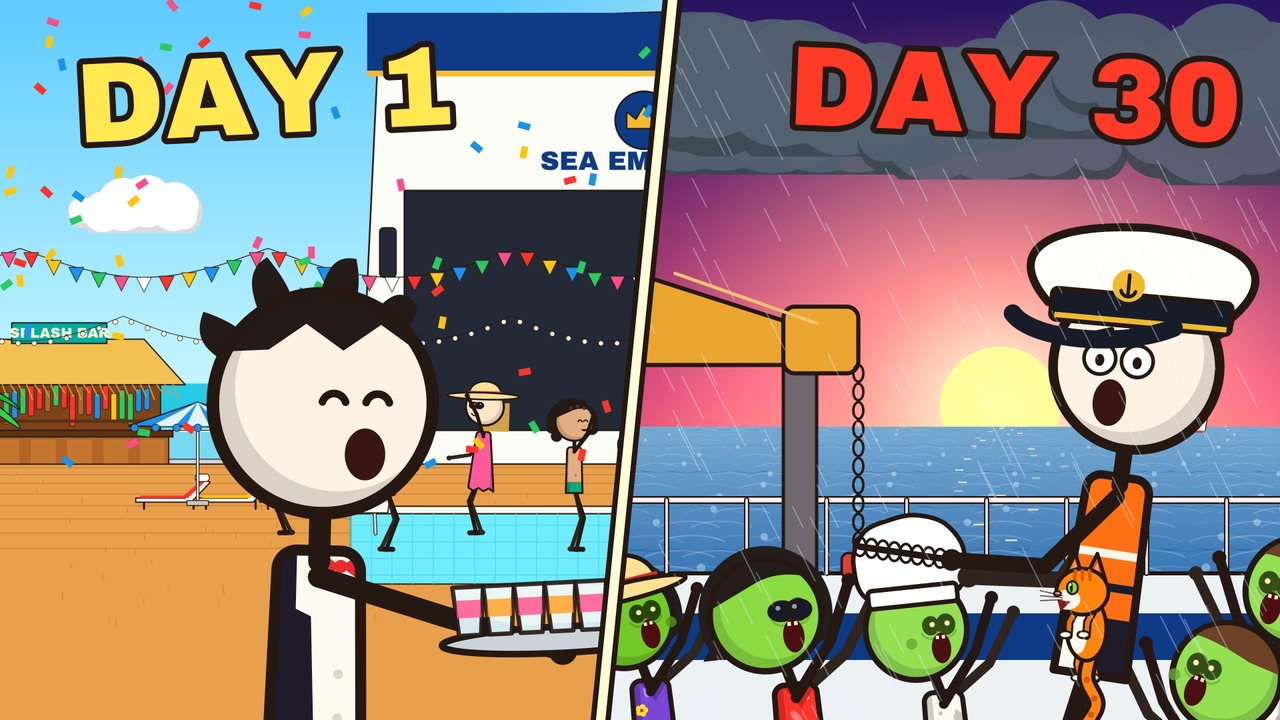
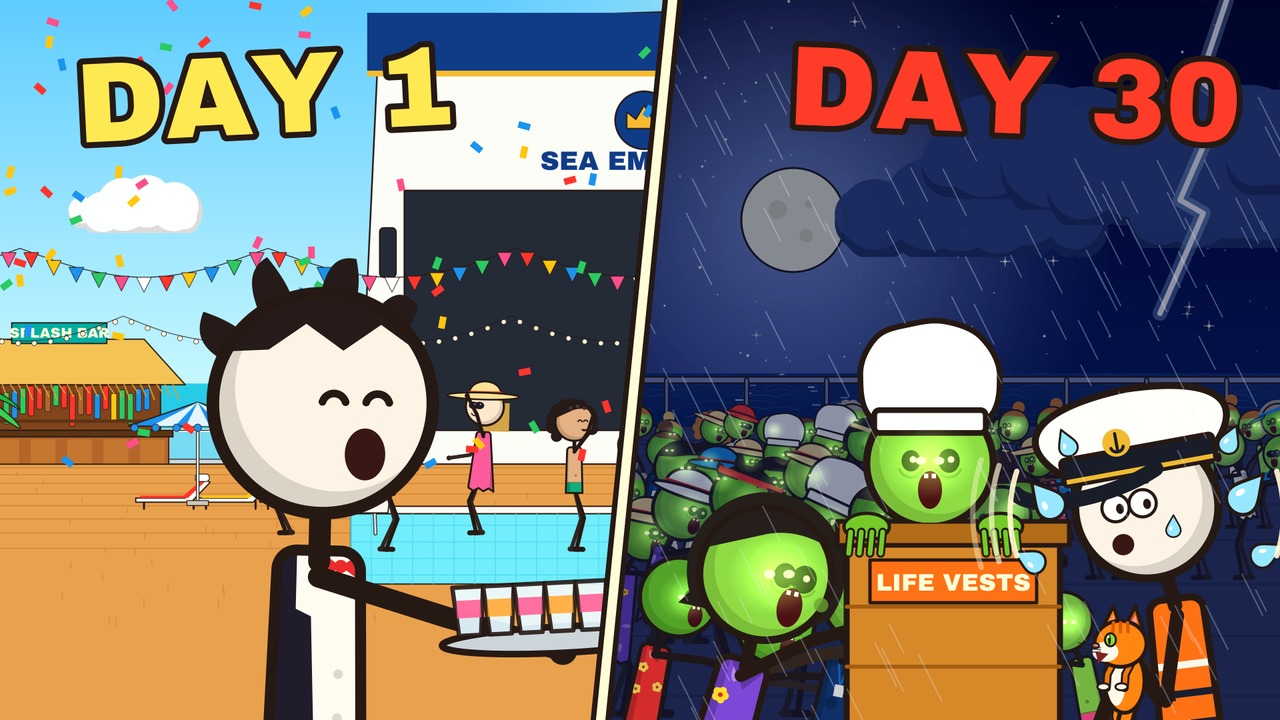
Cruise thumbnail: DAY 30 at night, bigger horde, captain hiding and sweating
Claude-Session: https://claude.ai/code/session_01E6in2Zs6XgDdSLVCuYpbjk

diff --git a/cruise30/tools/thumbnail.py b/cruise30/tools/thumbnail.py
@@ -1,8 +1,8 @@
 """Обложка «DAY 1 / DAY 30» для круиза.
 
 Слева день 1: солнечная палуба у бассейна, официант Лео с подносом коктейлей, вечеринка.
-Справа день 30: рассвет в шторм, верх трубы, Лео в капитанской фуражке и спасжилете с кошкой
-дёргает цепь латунного гудка, снизу лезут сочно-зелёные зомби.
+Справа день 30: ночь, луна и молния, орда сочно-зелёных зомби со светящимися глазами до горизонта;
+Лео в капитанской фуражке и спасжилете прячется за ящиком, обнимает кошку, весь в поту.
 
     python3 tools/thumbnail.py        → build/thumbnail.png (1280x720), docs/thumbnail.jpg
 """
@@ -61,38 +61,137 @@ def left(ctx):
     ctx.restore()
 
 
+def drop(ctx, x, y, s, ang=0.0):
+    """Капля пота: остриё вверх."""
+    ctx.save()
+    ctx.translate(x, y)
+    ctx.rotate(ang)
+    ctx.scale(s, s)
+    ctx.move_to(0, -1.6)
+    ctx.curve_to(0.55, -0.6, 1.0, 0.0, 1.0, 0.45)
+    ctx.curve_to(1.0, 1.05, 0.5, 1.4, 0.0, 1.4)
+    ctx.curve_to(-0.5, 1.4, -1.0, 1.05, -1.0, 0.45)
+    ctx.curve_to(-1.0, 0.0, -0.55, -0.6, 0, -1.6)
+    ctx.close_path()
+    D.col(ctx, hexrgb("#9fe0ff"))
+    ctx.fill_preserve()
+    D.col(ctx, D.INK)
+    ctx.set_line_width(0.22)
+    ctx.stroke()
+    D.ellipse(ctx, -0.35, 0.2, 0.18, 0.32, hexrgb("#ffffff"), None, 0, rot=0.3)
+    ctx.restore()
+
+
+def zombie(ctx, x, gy, s, f, seed, kind=None, reach=True, a=1.0):
+    p = zombie_reach(0.37 * seed, seed) if reach else zombie_idle(0.37 * seed, seed)
+    if reach:
+        p.update(a1=(1.45 + 0.25 * math.sin(seed), -0.15), a2=(1.25, -0.05), lean=0.2)
+    p.update(mouth=0.9, blink=0.0)
+    fig = R.Fig(R.zombie_look(seed, kind))
+    J = fig.draw(ctx, x, gy, s, f, p)
+    return fig.world(x, gy, s, f, J["head"])
+
+
 def right(ctx):
     ctx.save()
     clip_right(ctx)
-    D.vgrad(ctx, 0, 0, W, H, [(0, "#2b1d5a"), (0.55, "#c2507a"), (1, "#ffb36a")])
-    SEA.sun(ctx, 1500, 610, 90, "dawn")
-    fx.glow(ctx, 1500, 610, 600, "#ffcf8a", 0.4)
-    SEA.cloudbank(ctx, 900, 2100, 220, "storm", seed=5, n=7, s0=1.0, s1=1.6, alpha=0.9)
-    SEA.ocean(ctx, 0.0, 900, 2100, 640, 1200, "dawn", rough=0.6, seed=4, sun_x=1500)
-    SEA.cutter(ctx, 1720, 648, 0.35, -1)
-    # площадка трубы
-    D.rect(ctx, 880, 860, 1100, 300, hexrgb("#e8ecef"), D.INK, 6, wob=0)
-    D.rect(ctx, 880, 920, 1100, 70, hexrgb("#1c3f7c"), None, 0, wob=0)
-    OD.railing(ctx, 880, 2000, 860, "dawn", h=110, glass=False)
-    OD.horn(ctx, 1200, 860, 1.25, "dawn", chain_pull=0.6, blast=1.0)
-    # зомби лезут снизу
-    for i, (x, y, s, f) in enumerate(((990, 1420, 150, 1), (1210, 1480, 170, 1), (1430, 1450, 150, 1),
-                                      (1890, 1430, 175, -1), (1780, 1560, 165, -1))):
-        p = zombie_reach(0.3 * i, i)
-        p.update(a1=(2.7, 0.25), a2=(2.4, 0.4), mouth=1.0, lean=-0.1, neck=-0.3, blink=0.0)
-        R.Fig(R.zombie_look(700 + i * 3, ["hawaiian", None, "chef", "officer", None][i])).draw(ctx, x, y, s, f, p)
-    # Лео: фуражка, жилет, кошка, тянет цепь
-    p = R.stand("side", 0, 1)
-    p.update(face="scream", mouth=1.0, blink=0.0, hturn=0.55, h1=(0.85, -2.2), h2=(0.75, -2.1), lean=-0.15)
-    J = LEO_VEST.draw(ctx, 1640, 1390, 250, -1, p)
-    cx, cy = LEO_VEST.world(1640, 1390, 250, -1, J["top"])
-    draw_cat(ctx, cx - 50, cy + 190, 150, -1, cat_pose(0.0, "held", meow=1.0))
-    hx, hy = LEO_VEST.world(1640, 1390, 250, -1, J["hand1"])
-    D.line(ctx, hx, hy, 1290, 820, D.INK, 10)
-    for k in range(9):
-        D.ellipse(ctx, lerp(hx, 1290, k / 8), lerp(hy, 820, k / 8), 9, 14, None, D.INK, 4)
-    # дождь
-    SEA.rain_streaks(ctx, 0.0, TOP_X - 120, 0, W - TOP_X + 120, H, 0.8, 0.5, alpha=0.35)
+    # ночное небо, луна, молния
+    D.vgrad(ctx, 0, 0, W, H, [(0, "#050822"), (0.6, "#13205a"), (1, "#1d2f6e")])
+    SEA.stars(ctx, 880, 0, 1100, 560, 0.0, 7, 1.2)
+    fx.glow(ctx, 1190, 330, 480, "#cfe0ff", 0.45)
+    SEA.moon(ctx, 1190, 330, 78)
+    SEA.cloudbank(ctx, 1420, 2150, 330, "night", seed=8, n=6, s0=1.0, s1=1.5, alpha=0.95)
+    pts = [(1840, 0), (1800, 120), (1835, 150), (1770, 300), (1805, 320), (1740, 470)]
+    D.polyline(ctx, pts, hexrgb("#bfe0ff"), 22, 0.35)
+    D.polyline(ctx, pts, hexrgb("#ffffff"), 8)
+    SEA.ocean(ctx, 0.0, 880, 2100, 560, 900, "night", rough=0.4, seed=4, sun_x=1170)
+    # палуба
+    D.rect(ctx, 880, 640, 1100, 500, hexrgb("#3a3f5e"), None, 0, wob=0)
+    D.col(ctx, hexrgb("#30354f"))
+    ctx.set_line_width(3)
+    for k in range(10):
+        y = 660 + k * k * 6
+        ctx.move_to(880, y)
+        ctx.line_to(1980, y)
+    ctx.stroke()
+    OD.railing(ctx, 880, 2000, 640, "night", h=70, glass=False)
+    # дальняя орда: ряды голов до самого горизонта
+    heads = []
+    r = rng(30)
+    rows = [(690, 46, 22), (740, 58, 18), (800, 74, 15), (870, 92, 12)]
+    for ri, (gy, sc, n) in enumerate(rows):
+        for i in range(n):
+            x = 900 + (i + r.uniform(-0.3, 0.3)) * (1100 / n)
+            if ri >= 2 and x > 1560:
+                continue
+            hx, hy = zombie(ctx, x, gy + sc * 2.2, sc, 1 if x < 1500 else -1, 5000 + ri * 40 + i, reach=ri >= 1)
+            heads.append((hx, hy, sc))
+    D.rect(ctx, 880, 0, 1100, H, hexrgb("#0a1236"), None, 0, wob=0, alpha=0.35)
+    for hx, hy, sc in heads:
+        zombie_glow_eyes(ctx, hx + 0.1 * sc, hy, sc * 0.13, 0.9)
+    # средний план
+    mids = []
+    for i, (x, gy, sc) in enumerate(((960, 1290, 115), (1100, 1320, 125), (1240, 1300, 118), (1500, 1250, 100),
+                                     (1640, 1230, 95))):
+        mids.append((zombie(ctx, x, gy, sc, 1 if x < 1450 else -1, 6100 + i,
+                            ["hawaiian", "chef", None, "officer", None][i]), sc))
+    D.rect(ctx, 880, 0, 1100, H, hexrgb("#0a1236"), None, 0, wob=0, alpha=0.18)
+    for (hx, hy), sc in mids:
+        zombie_glow_eyes(ctx, hx + 0.1 * sc, hy, sc * 0.13, 1.0)
+    # передний план: двое тянутся через ящик к Лео
+    for i, (x, gy, sc) in enumerate(((1060, 1520, 205),)):
+        p = zombie_reach(0.2, 7000 + i)
+        p.update(a1=(1.75, -0.2), a2=(1.55, -0.12), lean=0.28, mouth=1.0, blink=0.0, neck=-0.05)
+        fig = R.Fig(R.zombie_look(7000 + i, ["hawaiian", None][i]))
+        J = fig.draw(ctx, x, gy, sc, 1, p)
+        hx, hy = fig.world(x, gy, sc, 1, J["head"])
+        zombie_glow_eyes(ctx, hx + 0.1 * sc, hy, sc * 0.13, 1.0)
+    # ящик со спасжилетами — укрытие между ними и Лео
+    bx0, bx1, by0 = 1270, 1590, 800
+    D.rect(ctx, bx0, by0, bx1 - bx0, H - by0 + 20, hexrgb("#c98a3e"), D.INK, 9, wob=0)
+    D.rect(ctx, bx0 - 14, by0 - 18, bx1 - bx0 + 28, 36, hexrgb("#a86f2c"), D.INK, 7, wob=0)
+    for k in range(3):
+        D.line(ctx, bx0, by0 + 110 + k * 90, bx1, by0 + 110 + k * 90, hexrgb("#9a6224"), 6)
+    D.rect(ctx, bx0 + 35, by0 + 40, bx1 - bx0 - 70, 64, hexrgb("#f2782e"), D.INK, 5, wob=0)
+    D.text(ctx, "LIFE VESTS", (bx0 + bx1) / 2, by0 + 86, 36, D.FONT_TITLE, hexrgb("#fff6d8"))
+    # из-за ящика высовывается зомби: голова над краем, руки через край
+    sc = 190
+    zx, zy = 1395, by0 - 105
+    ctx.save()
+    ctx.rectangle(880, 0, 1100, by0 - 16)
+    ctx.clip()
+    R.Fig(R.zombie_look(7101, "chef")).head_only(ctx, zx, zy, sc, 1, {"view": "front", "mouth": 1.0, "neck_line": False,
+                                                                     "blink": 0.0})
+    ctx.restore()
+    zombie_glow_eyes(ctx, zx, zy - 0.02 * sc, sc * 0.13, 1.0)
+    for k, (hx_, ang) in enumerate(((1300, -0.3), (1500, 0.3))):
+        D.ellipse(ctx, hx_, by0 - 10, 34, 20, hexrgb(R.ZOMBIE_SKIN[1]), D.INK, 5)
+        for f_ in range(4):
+            fx_ = hx_ - 24 + f_ * 16
+            D.line(ctx, fx_, by0 - 2, fx_ + ang * 10, by0 + 30, D.INK, 13)
+            D.line(ctx, fx_, by0 - 2, fx_ + ang * 10, by0 + 30, hexrgb(R.ZOMBIE_SKIN[1]), 7)
+    # Лео прячется за ящиком: сжался, обнимает кошку, косится на зомби
+    s = 215
+    lx, lgy = 1790, 1150
+    p = floor_sit_pose(0.0, 1, "scared", hug=True)
+    p.update(blink=0.0, mouth=0.4, hturn=0.8, look=(-1.0, 0.0), lean=0.12, neck=0.18)
+    J = LEO_VEST.draw(ctx, lx, lgy, s, -1, p)
+    hx, hy = LEO_VEST.world(lx, lgy, s, -1, J["head"])
+    cx, cy = LEO_VEST.world(lx, lgy, s, -1, J["hand1"])
+    draw_cat(ctx, cx + 30, cy + 10, 150, -1, cat_pose(0.0, "held", meow=1.0))
+    # пот вокруг лица и дрожь
+    for (dx, dy, ds, da) in ((-150, -10, 22, -0.7), (150, -20, 24, 0.7), (-175, 80, 17, -1.1), (180, 70, 18, 1.1),
+                             (-120, -95, 14, -0.4), (125, -100, 15, 0.4), (40, 30, 11, 0.0)):
+        drop(ctx, hx + dx, hy + dy, ds, da)
+    for k in (-1, 1):
+        for jj in range(3):
+            a0 = math.pi * (0.9 if k < 0 else -0.1)
+            ctx.arc(hx, hy + 10, 205 + jj * 28, a0, a0 + math.pi * 0.2)
+            D.col(ctx, hexrgb("#fff6d8"), 0.9 - jj * 0.25)
+            ctx.set_line_width(8)
+            ctx.stroke()
+    # холодный лунный свет и дождь
+    SEA.rain_streaks(ctx, 0.0, TOP_X - 120, 0, W - TOP_X + 120, H, 0.7, 0.5, alpha=0.3)
     ctx.restore()
 
 
